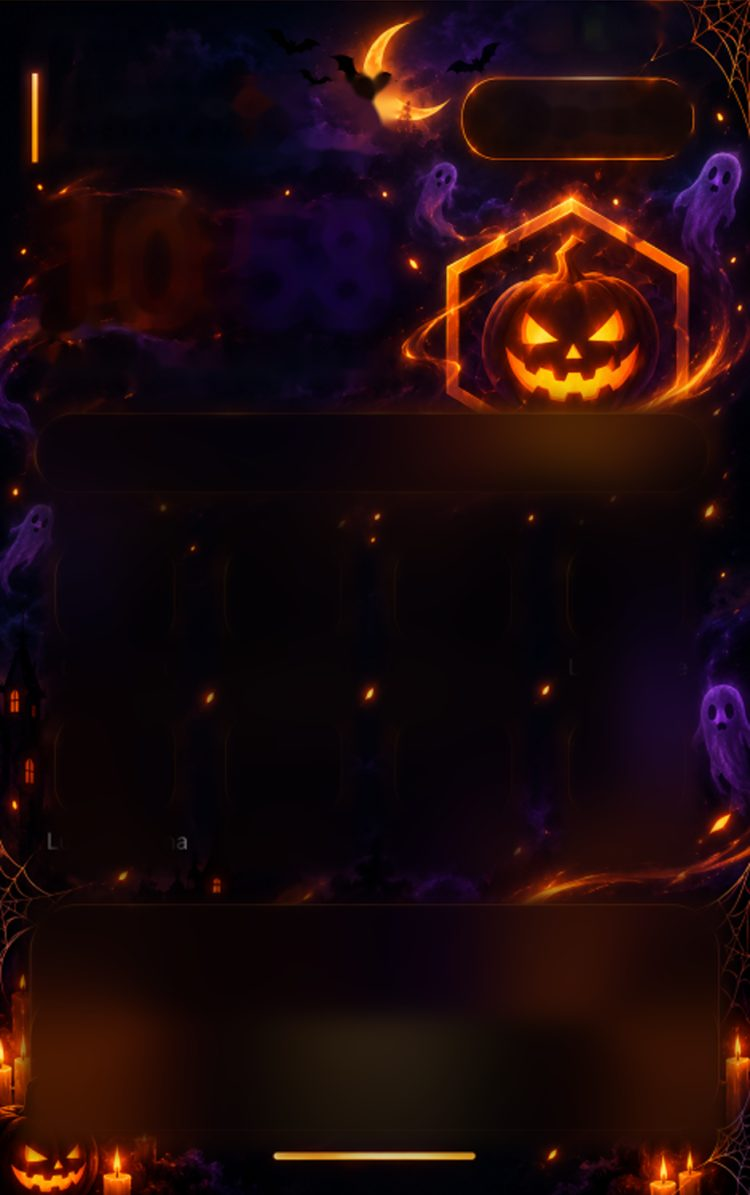
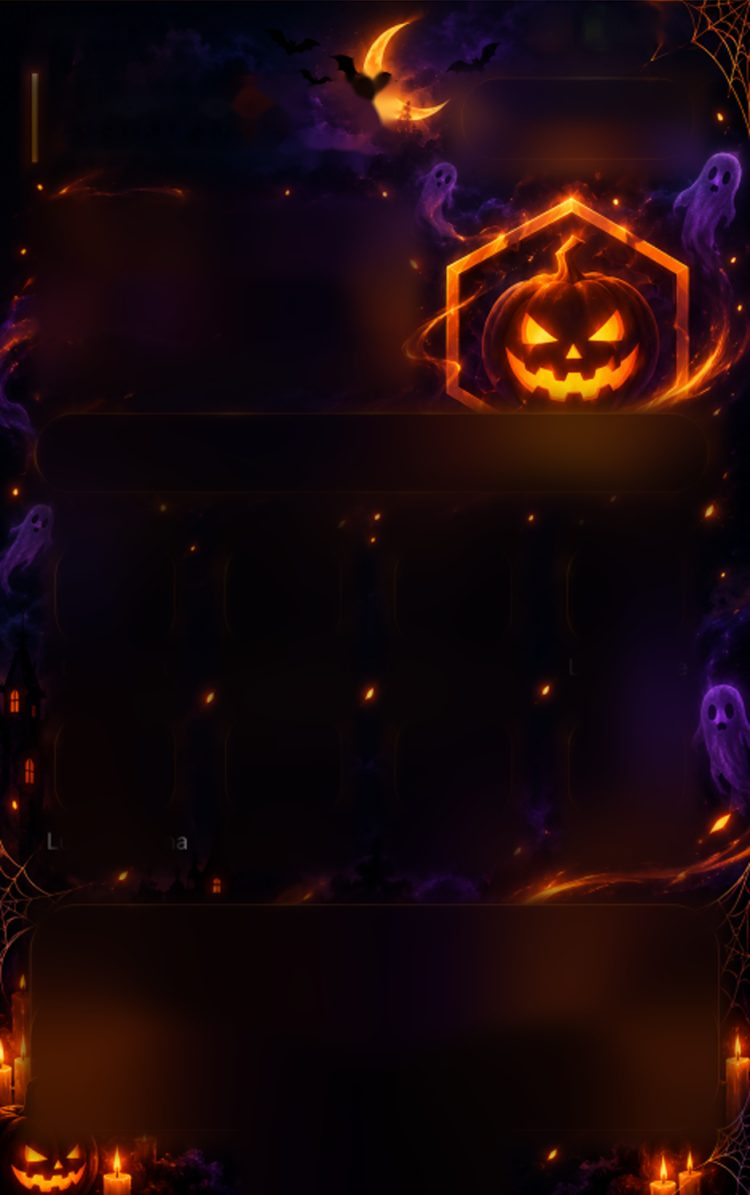
Bewegter Hintergrund: Driften, Atmen, Wellen, Glitzern, Parallax; Pill und Balken live; Alle-Apps-Seite und Sperrbildschirm animiert
Claude-Session: https://claude.ai/code/session_01QPs3d166SmVoQPqWLWZDzX

diff --git a/index.html b/index.html
@@ -613,7 +613,7 @@ select.f{appearance:auto}
 .skh .xup{position:absolute;left:0;right:0;top:1462px;text-align:center;font-size:30px;font-weight:700;color:#fff;opacity:.75;text-shadow:0 0 12px #000;pointer-events:none;animation:skbob 1.6s ease-in-out infinite alternate}
 
 .skh .s1{position:relative;height:100%;overflow:hidden;scroll-snap-align:start}
-.skh .s2{min-height:100%;box-sizing:border-box;scroll-snap-align:start;padding:46px 14px 40px;background:linear-gradient(rgba(4,2,10,.55),rgba(4,2,10,.82)),var(--skbg) center/cover}
+.skh .s2{min-height:100%;box-sizing:border-box;scroll-snap-align:start;padding:46px 14px 40px;background:linear-gradient(rgba(4,2,10,.12),rgba(4,2,10,.42))}
 .skh .s2h{display:flex;justify-content:space-between;align-items:center;margin-bottom:14px;color:#fff}.skh .s2h b{font-size:26px;font-weight:600}
 .skh .s2b{border:1px solid #ffffff55;background:#0008;color:#fff;border-radius:16px;padding:8px 12px;font-weight:700}
 .skg{display:grid;grid-template-columns:repeat(4,1fr);gap:16px 6px}
@@ -672,6 +672,19 @@ select.f{appearance:auto}
 @keyframes sktl{from{box-shadow:0 0 18px var(--gc)55,inset 0 0 18px var(--gc)22}to{box-shadow:0 0 40px var(--gc)aa,inset 0 0 30px var(--gc)44}}
 .skh .tl.tap{transform:scale(.94)}
 .skh .hs.ap::after{display:none}.skh .tl.hat::after,.skh.sv .tl:not(.hat)::after{display:block}
+
+/* Live-Pill + Balken (nicht mehr im Bild, damit sie beim Driften des Hintergrunds nicht verrutschen) */
+.skh .xp{position:absolute;border-radius:60px;background:rgba(8,5,16,.93);border:3px solid var(--gc);box-shadow:0 0 24px var(--gc)66,inset 0 0 22px var(--gc)22;box-sizing:border-box}
+.skh .xbar{position:absolute;width:6px;border-radius:3px;background:linear-gradient(var(--gc),rgba(255,255,255,0));box-shadow:0 0 12px var(--gc)}
+.sk-fxa .skh .xp{animation:skpl 4s ease-in-out infinite alternate}
+@keyframes skpl{from{box-shadow:0 0 14px var(--gc)44,inset 0 0 16px var(--gc)18}to{box-shadow:0 0 34px var(--gc)99,inset 0 0 28px var(--gc)40}}
+.skh.xm .xp::after{content:'';position:absolute;right:10px;top:-52px;width:96px;height:70px;background:radial-gradient(circle at 88% 90%,#fff 0 10px,transparent 11px),linear-gradient(#e0262b,#b31217);clip-path:polygon(0 100%,35% 8%,72% 0,100% 100%);transform:rotate(12deg)}
+.skh.xm .xp::before{content:'';position:absolute;left:30px;right:30px;top:-7px;height:20px;border-radius:12px;background:linear-gradient(#fff,#cfe3ff)}
+.skh .xlg{display:none!important}
+
+/* Sperrbildschirm: bewegtes Skin-Bild */
+#phone.sk-hw.lo #lock#lock,#phone.sk-xm.lo #lock#lock,#phone.sk-sv.lo #lock#lock{background:linear-gradient(rgba(0,0,0,.08),rgba(0,0,0,.4)),var(--sklk) 50% 50%/auto 112% no-repeat,#05030a;animation:sklk 18s ease-in-out infinite alternate}
+@keyframes sklk{from{background-size:100% 100%,auto 108%;background-position:0 0,35% 30%}to{background-size:100% 100%,auto 128%;background-position:0 0,65% 70%}}
 /* ================= 6.2: Lucario Arena (grafisch) ================= */
 .ag{position:relative;width:100%;height:100%;min-height:520px;background:#0b0f1e;color:#eaf0ff;font-family:system-ui,sans-serif;overflow:hidden;user-select:none;-webkit-user-select:none;touch-action:manipulation}
 .ag *{box-sizing:border-box}
@@ -4904,7 +4917,7 @@ A.putz=el=>{
   try{ph.insertBefore(cv,$('#fxb')||$('#home'))}catch(e){ph.appendChild(cv)}
   const g=cv.getContext('2d');let W=0,H=0,bg=null,raf=0,last=0,skin='',T=0;
   const R=(a,b)=>a+Math.random()*(b-a),perf=()=>{const c=ph.classList;return c.contains('perf3')?3:c.contains('perf2')?2:c.contains('perf1')?1:0};
-  const DEF={extra:1,ex:1,dens:100,spd:100,glow:100,sharp:0,dim:100,games:1,gdens:100,anim:1,look:1,force:0},K=()=>Object.assign({},DEF,SET.skfx||{});let DN=1,drawn=false,exShown=false;
+  const DEF={mv:100,tilt:1,extra:1,ex:1,dens:100,spd:100,glow:100,sharp:0,dim:100,games:1,gdens:100,anim:1,look:1,force:0},K=()=>Object.assign({},DEF,SET.skfx||{});let DN=1,drawn=false,exShown=false;
   const lvl=()=>K().force?0:perf();
   /* ---------- Zustand je Skin ---------- */
   let flares=[],fog,bats,ghosts,embers,pumps,rockets,sparks,conf,wins,ripples,shineT;
@@ -4940,7 +4953,7 @@ A.putz=el=>{
     x.fillStyle='#f2f6ff';x.beginPath();x.arc(o.x,y-s*.2,s*.5,Math.PI,0);x.lineTo(o.x+s*.5,y+s*.55);for(let i=0;i<5;i++){x.quadraticCurveTo(o.x+s*.5-(i+.5)*s*.2,y+s*(.55+(i%2?-.18:.2)),o.x+s*.5-(i+1)*s*.2,y+s*.55)}x.closePath();x.fill();
     x.fillStyle='#1a1030';x.beginPath();x.ellipse(o.x-s*.18,y-s*.22,s*.07,s*.12,0,0,7);x.ellipse(o.x+s*.18,y-s*.22,s*.07,s*.12,0,0,7);x.fill();x.beginPath();x.ellipse(o.x,y+s*.05,s*.08,s*.12,0,0,7);x.fill();x.restore()}
   function hwFrame(dt,t){
-    g.drawImage(bg,0,0);
+    drawBg(t,dt);
     fog.forEach(f=>{f.x+=f.v*dt*30;if(f.x>W+f.r)f.x=-f.r;if(f.x<-f.r)f.x=W+f.r;const gr=g.createRadialGradient(f.x,f.y,0,f.x,f.y,f.r);gr.addColorStop(0,'rgba(150,90,210,'+f.a+')');gr.addColorStop(1,'rgba(150,90,210,0)');g.fillStyle=gr;g.fillRect(f.x-f.r,f.y-f.r,f.r*2,f.r*2)});
     if(!exShown)pumps.forEach(p=>pumpkin(p,t));
     if(Math.random()<dt*DN*.5&&bats.length<(lvl()?2:4))bats.push({x:Math.random()<.5?-30:W+30,y:R(H*.08,H*.5),vx:0,s:W*R(.07,.12),p:R(0,6),d:1,sp:R(70,130)});
@@ -4959,7 +4972,7 @@ A.putz=el=>{
   const PAL=['#ffd24a','#ff9a3a','#5aa8ff','#ff5ad0','#7dffb0','#ffffff','#b07dff'];
   function boom(x,y){const c=PAL[Math.floor(R(0,PAL.length))],c2=PAL[Math.floor(R(0,PAL.length))],n=lvl()?44:90,ring=Math.random()<.4;for(let i=0;i<n;i++){const a=i/n*6.283,v=ring?5.4:R(1.5,6.4);sparks.push({x,y,vx:Math.cos(a)*v,vy:Math.sin(a)*v,l:1,d:R(.009,.016),c:i%3?c:c2})}ripples.push({x,y:Math.min(H*.84,y+H*.38),l:1,c});flares.push({x,y,l:1,c})}
   function svFrame(dt,t){
-    g.drawImage(bg,0,0);
+    drawBg(t,dt);
     wins.forEach(w=>{const a=.25+.6*Math.max(0,Math.sin(t*w.f+w.p));if(a>.4){g.fillStyle='rgba(255,214,120,'+a+')';g.fillRect(w.x,w.y,3,4)}});
     const tw=g.createLinearGradient(0,H*.8,0,H);tw.addColorStop(0,'rgba(255,200,90,.14)');tw.addColorStop(1,'rgba(255,200,90,0)');g.fillStyle=tw;for(let i=0;i<7;i++){g.fillRect(((i*97+t*14*(i%2?1:-1))%W+W)%W,H*.8+i*H*.025,W*.22,2)}
     if(Math.random()<dt*DN*(lvl()?.7:1.4)&&rockets.length<3)rockets.push({x:R(W*.12,W*.88),y:H*.8,ty:R(H*.12,H*.42),vy:-R(4,6)});
@@ -4976,22 +4989,51 @@ A.putz=el=>{
   function geo(w,h){let s0=w/940,gap=h-1494*s0;if(gap<0){s0=h/1494;gap=0}return{s:s0,gap:gap,ox:(w-940*s0)/2,oy:gap>0?0:(h-1494*s0)/2}}
   const IM={};function img(k,sfx){const n=k+(sfx||'');if(!IM[n]){const i=new Image();IM[n]={i,ok:false};i.onload=()=>{IM[n].ok=true;if(skin==k)try{build();drawn=false}catch(e){}};const u=sfx=='@h'?'skh-'+k+'.jpg':'skin-'+n+'.jpg';i.src=(window.__SKI&&window.__SKI[u])||u}return IM[n]}
   function cover(x,m){const w=m.i.width,h=m.i.height,sc=Math.max(W/w,H/h);x.drawImage(m.i,(W-w*sc)/2,(H-h*sc)/2,w*sc,h*sc)}
-  function imgBg(k,fb){const m=img(k);const q=K(),ms=img(k,'-s');if(exShown){const mh=img(k,'@h');return mkBg(x=>{if(m.ok)cover(x,m);x.fillStyle='rgba(0,0,0,.35)';x.fillRect(0,0,W,H);if(mh.ok){const G0=geo(W,H),s0=G0.s,k=mh.i.width/940,sm=SEAM[skin];
+  function imgBg(k,fb,bl){const m=img(k);const q=K(),ms=img(k,'-s');if(exShown&&!bl){const mh=img(k,'@h');return mkBg(x=>{if(m.ok)cover(x,m);x.fillStyle='rgba(0,0,0,.35)';x.fillRect(0,0,W,H);if(mh.ok){const G0=geo(W,H),s0=G0.s,k=mh.i.width/940,sm=SEAM[skin];
       if(G0.gap<=0){const w0=940*s0,h0=1494*s0,t=document.createElement('canvas');t.width=Math.ceil(w0);t.height=Math.ceil(h0);const y=t.getContext('2d');y.drawImage(mh.i,0,0,t.width,t.height);y.globalCompositeOperation='destination-in';const gr=y.createLinearGradient(0,0,0,t.height),fd=Math.min(.12,60/t.height);gr.addColorStop(0,'rgba(0,0,0,0)');gr.addColorStop(fd,'#000');gr.addColorStop(1-fd,'#000');gr.addColorStop(1,'rgba(0,0,0,0)');y.fillStyle=gr;y.fillRect(0,0,t.width,t.height);x.drawImage(t,G0.ox,G0.oy)}
       else{const gp=G0.gap,tmp=document.createElement('canvas');tmp.width=60;tmp.height=30;tmp.getContext('2d').drawImage(mh.i,0,(sm-70)*k,mh.i.width,140*k,0,0,60,30);
         const band=(a,b,dy,f0,f1)=>{const hh=(b-a)*s0,t=document.createElement('canvas');t.width=Math.ceil(W);t.height=Math.ceil(hh);const y=t.getContext('2d');y.drawImage(mh.i,0,a*k,mh.i.width,(b-a)*k,0,0,t.width,t.height);y.globalCompositeOperation='destination-in';const gr=y.createLinearGradient(0,0,0,t.height);gr.addColorStop(0,f0?'rgba(0,0,0,0)':'#000');gr.addColorStop(f0?Math.min(.5,24*s0/t.height):0,'#000');gr.addColorStop(f1?1-Math.min(.5,24*s0/t.height):1,'#000');gr.addColorStop(1,f1?'rgba(0,0,0,0)':'#000');y.fillStyle=gr;y.fillRect(0,0,t.width,t.height);x.drawImage(t,0,dy)};
         band(0,sm,0,0,1);band(sm,1494,sm*s0+gp,1,0)}}})}
-    return mkBg(x=>{if(m.ok){cover(x,m);if(q.sharp>0&&ms.ok){x.globalAlpha=q.sharp/100;cover(x,ms);x.globalAlpha=1}if(q.dim<100){x.fillStyle='rgba(0,0,0,'+(1-q.dim/100)+')';x.fillRect(0,0,W,H)}}else fb(x)})}
+    return mkBg(x=>{if(m.ok){cover(x,m);if(bl){x.globalCompositeOperation='lighter';x.globalAlpha=.45;cover(x,m);x.globalAlpha=1;x.globalCompositeOperation='source-over'}if(q.sharp>0&&ms.ok){x.globalAlpha=q.sharp/100;cover(x,ms);x.globalAlpha=1}if(q.dim<100){x.fillStyle='rgba(0,0,0,'+(1-q.dim/100)+')';x.fillRect(0,0,W,H)}}else fb(x)})}
   /* ---------- WEIHNACHTEN ---------- */
   function xmBg(x){const sg=x.createLinearGradient(0,0,0,H);sg.addColorStop(0,'#070b24');sg.addColorStop(.6,'#13244f');sg.addColorStop(1,'#1d2f5c');x.fillStyle=sg;x.fillRect(0,0,W,H)}
   let snow,lights,shoot;
   function xmInit(){snow=Array.from({length:lvl()?40:110},()=>({x:R(0,W),y:R(0,H),v:R(.4,1.5),p:R(0,6),s:R(1,3.2)}));lights=Array.from({length:14},(_,i)=>({x:(i+.5)/14*W,c:['#ff3b3b','#ffd23d','#3bff7a','#4cc3ff'][i%4],p:R(0,6)}));shoot=null}
-  function xmFrame(dt,t){g.drawImage(bg,0,0);
+  function xmFrame(dt,t){drawBg(t,dt);
     g.fillStyle='rgba(255,255,255,.85)';snow.forEach(f=>{f.y+=f.v*dt*45;f.x+=Math.sin(t*.8+f.p)*.4;if(f.y>H+4){f.y=-4;f.x=R(0,W)}g.globalAlpha=.45+f.s/6;g.beginPath();g.arc(f.x,f.y,f.s*SC,0,7);g.fill()});g.globalAlpha=1;
     g.strokeStyle='rgba(20,60,30,.9)';g.lineWidth=2;g.beginPath();g.moveTo(0,4);lights.forEach(l=>g.lineTo(l.x,4+Math.sin(l.x/W*Math.PI*3)*7+8));g.lineTo(W,6);g.stroke();
     lights.forEach(l=>{const y=12+Math.sin(l.x/W*Math.PI*3)*7,a=.55+.45*Math.sin(t*3+l.p);g.fillStyle=l.c;g.globalAlpha=a;g.shadowColor=l.c;g.shadowBlur=14;g.beginPath();g.arc(l.x,y,4.2,0,7);g.fill();g.shadowBlur=0});g.globalAlpha=1;
     if(!shoot&&Math.random()<dt*DN*.15)shoot={x:R(W*.3,W),y:R(0,H*.25),l:1};if(shoot){shoot.x-=dt*420;shoot.y+=dt*170;shoot.l-=dt*1.1;g.strokeStyle='rgba(255,255,255,'+Math.max(0,shoot.l)+')';g.lineWidth=2;g.beginPath();g.moveTo(shoot.x,shoot.y);g.lineTo(shoot.x+50,shoot.y-20);g.stroke();if(shoot.l<=0)shoot=null}}
   function scale(a,f){if(!a||f===1)return a;if(f<1){a.length=Math.floor(a.length*f)}else{const n=a.length;for(let i=0;i<Math.round(n*(f-1));i++){const c=Object.assign({},a[i%n]);c.x=R(0,W);c.y=R(0,H);a.push(c)}}return a}
+  /* ---------- Hintergrund-Bewegung: Driften, Atmen, Wellen, Glitzern, Parallax ---------- */
+  let bgBl=null,mix=0,mt=0,curX=0,curY=0,ptX=0,ptY=0,orX=null,orY=null,pts=[],bok=[],qs=0,fc=0,fn=0;
+  const ART={hw:{hex:[712,562,200],moon:[505,265,130],eyes:[[668,590],[760,590]]},xm:{hex:[725,602,160],moon:[565,262,130],star:[781,415]},sv:{hex:[697,575,160],crown:[697,455],hat:[880,775,120]}};
+  const BK={hw:['255,140,40','170,100,255','255,200,80'],xm:['255,255,255','255,210,120','255,90,90'],sv:['255,205,90','110,160,255','255,120,200']};
+  function art(X,Y){const G0=geo(W,H);return[G0.ox+X*G0.s,G0.oy+(Y-178)*G0.s,G0.s]}
+  try{ph.addEventListener('pointermove',e=>{const r=ph.getBoundingClientRect();ptX=((e.clientX-r.left)/r.width-.5)*2;ptY=((e.clientY-r.top)/r.height-.5)*2},{passive:true});ph.addEventListener('pointerleave',()=>{ptX=0;ptY=0});
+    addEventListener('deviceorientation',e=>{if(e.gamma==null)return;orX=Math.max(-1,Math.min(1,e.gamma/22));orY=Math.max(-1,Math.min(1,((e.beta||0)-55)/22))},{passive:true});
+    ph.addEventListener('click',()=>{try{if(window.DeviceOrientationEvent&&DeviceOrientationEvent.requestPermission&&!window.__doReq){window.__doReq=1;DeviceOrientationEvent.requestPermission().catch(()=>{})}}catch(_){}})}catch(e){}
+  function findPts(){pts=[];if(!bg)return;try{const d=bg.getContext('2d').getImageData(0,0,W,H).data,st=3,c=[];const Lm=i=>d[i]*.3+d[i+1]*.59+d[i+2]*.11;
+      for(let y=6;y<H-6;y+=st)for(let x=6;x<W-6;x+=st){const i=(y*W+x)*4,l=Lm(i);if(l<175)continue;let ok=true;for(let dy=-6;dy<=6&&ok;dy+=3)for(let dx=-6;dx<=6;dx+=3){if(!dx&&!dy)continue;if(Lm(((y+dy)*W+x+dx)*4)>l){ok=false;break}}if(ok)c.push([x,y,l,d[i],d[i+1],d[i+2]])}
+      c.sort((a,b)=>b[2]-a[2]);for(const p of c){if(pts.length>=150)break;if(pts.some(q=>(q.x-p[0])*(q.x-p[0])+(q.y-p[1])*(q.y-p[1])<150))continue;const m=Math.max(p[3],p[4],p[5],1)/255;pts.push({x:p[0],y:p[1],r:R(1.6,3.4),f:R(1.2,4.2),p:R(0,6.3),c:'rgba('+Math.min(255,p[3]/m|0)+','+Math.min(255,p[4]/m|0)+','+Math.min(255,p[5]/m|0)+',.55)'})}}catch(e){pts=[]}}
+  function mkBok(){const cl=BK[skin]||BK.hw,n=lvl()?5:11;bok=Array.from({length:n},(_,i)=>({x:R(0,W),y:R(0,H),r:R(W*.05,W*.15),v:R(5,20),p:R(0,6),a:R(.05,.12),c:cl[i%cl.length]}))}
+  function glow(X,Y,r,col,a){const o=art(X,Y),rr=r*o[2],gr=g.createRadialGradient(o[0],o[1],0,o[0],o[1],rr);gr.addColorStop(0,'rgba('+col+','+Math.max(0,a)+')');gr.addColorStop(1,'rgba('+col+',0)');g.fillStyle=gr;g.fillRect(o[0]-rr,o[1]-rr,rr*2,rr*2)}
+  function flare(P,col,t){const o=art(P[0],P[1]),s0=o[2],Lr=(34+16*Math.sin(t*3.1))*s0;g.save();g.translate(o[0],o[1]);g.rotate(t*.6);g.strokeStyle='rgba('+col+',.85)';g.lineWidth=Math.max(1,2*s0);g.lineCap='round';for(let k=0;k<2;k++){g.rotate(Math.PI/2);g.beginPath();g.moveTo(-Lr,0);g.lineTo(Lr,0);g.stroke()}g.restore();glow(P[0],P[1],60,col,.35+.25*Math.sin(t*3.1))}
+  function drawBg(t,dt){if(!bg)return;const q=K(),A=Math.min(2.5,Math.max(0,q.mv/100)),tl=q.tilt?1:0,ex=orX!==null?orX:ptX,ey=orY!==null?orY:ptY,kk=Math.min(1,dt*3.5);
+    curX+=(ex-curX)*kk;curY+=(ey-curY)*kk;mt+=dt;
+    const wx=.016*A,wy=.010*A,sc=1+.096*A+.02*A*Math.sin(mt*.35),
+      px=(Math.sin(mt*.21)*wx+Math.sin(mt*.47+1)*wx*.35-curX*.022*A*tl)*W,py=(Math.cos(mt*.16)*wy+Math.sin(mt*.39)*wy*.4-curY*.014*A*tl)*H;
+    g.save();g.translate(W/2+px,H/2+py);g.scale(sc,sc);g.translate(-W/2,-H/2);
+    const wave=A>0&&qs==0&&lvl()==0,vis=1-mix,dm=(im,al)=>{g.globalAlpha=al;if(wave){const sh=7,amp=2.1*A;for(let y=0;y<H;y+=sh){const f=skin=='sv'?(.4+.9*y/H):1,off=(Math.sin(y*.045+mt*1.5)+.6*Math.sin(y*.013-mt*.8))*amp*f,hh=Math.min(sh,H-y);g.drawImage(im,0,y,W,hh,off,y,W,hh)}}else g.drawImage(im,0,0);g.globalAlpha=1};
+    if(mix>.02&&bgBl){dm(bgBl,1);if(mix<.98)dm(bg,vis)}else dm(bg,1);
+    g.globalCompositeOperation='lighter';
+    if(qs<2&&pts.length){const n=qs?Math.min(pts.length,55):pts.length;for(let i=0;i<n;i++){const p=pts[i],a=(.15+.85*Math.pow(.5+.5*Math.sin(mt*p.f+p.p),2))*vis;g.globalAlpha=a;g.fillStyle=p.c;g.beginPath();g.arc(p.x,p.y,p.r*2.6,0,7);g.fill();g.fillStyle='#fff';g.beginPath();g.arc(p.x,p.y,p.r*.65,0,7);g.fill()}g.globalAlpha=1}
+    if(exShown&&A>0&&vis>.02){g.globalAlpha=vis;const a=ART[skin],pu=.5+.5*Math.sin(mt*1.7);
+      if(skin=='hw'){const fl=.2+.15*Math.sin(mt*7.3)+.09*Math.sin(mt*13.1+1)+.04*Math.random();glow(a.hex[0],a.hex[1],a.hex[2],'255,130,20',fl);a.eyes.forEach((e,i)=>glow(e[0],e[1],48,'255,210,70',.28+.3*Math.sin(mt*9+i*2)));glow(a.moon[0],a.moon[1],a.moon[2],'255,190,80',.22+.14*pu)}
+      else if(skin=='xm'){glow(a.hex[0],a.hex[1],a.hex[2],'255,60,60',.16+.14*pu);glow(a.moon[0],a.moon[1],a.moon[2],'200,220,255',.18+.12*Math.sin(mt*.9));flare(a.star,'255,230,150',mt)}
+      else{glow(a.hex[0],a.hex[1],a.hex[2],'255,200,60',.18+.15*pu);flare(a.crown,'255,235,160',mt+1);glow(a.hat[0],a.hat[1],a.hat[2],'255,200,60',.1+.1*pu)}g.globalAlpha=1}
+    g.globalCompositeOperation='source-over';g.restore();
+    if(bok.length&&qs<2){g.globalCompositeOperation='lighter';bok.forEach(b=>{b.y-=b.v*dt;b.x+=Math.sin(mt*.3+b.p)*.25;if(b.y<-b.r){b.y=H+b.r;b.x=R(0,W)}const gr=g.createRadialGradient(b.x,b.y,0,b.x,b.y,b.r);gr.addColorStop(0,'rgba('+b.c+','+b.a+')');gr.addColorStop(1,'rgba('+b.c+',0)');g.fillStyle=gr;g.fillRect(b.x-b.r,b.y-b.r,b.r*2,b.r*2)});g.globalCompositeOperation='source-over'}}
   /* ---------- Extra-Animationen (Blitz, Spinne, Schlitten, Aurora, Strahler, Tipp-Effekte) ---------- */
   let tp=[],ltm=4,lfl=0,spd=null,slg=null,slT=12;
   function burst(x,y){if(!skin)return;const n=lvl()?8:18;
@@ -5007,12 +5049,13 @@ A.putz=el=>{
     else if(skin=='xm'){g.globalCompositeOperation='lighter';[['rgba(60,255,160,','.07',.18],['rgba(160,90,255,','.06',.26],['rgba(60,200,255,','.05',.12]].forEach((a,i)=>{const yy=H*(a[2])+Math.sin(t*.4+i*2)*H*.03,gr=g.createLinearGradient(0,yy-H*.12,0,yy+H*.12);gr.addColorStop(0,a[0]+'0)');gr.addColorStop(.5,a[0]+(.08+.05*Math.sin(t*.7+i))+')');gr.addColorStop(1,a[0]+'0)');g.fillStyle=gr;g.fillRect(0,yy-H*.12,W,H*.24)});g.globalCompositeOperation='source-over';
       slT-=dt;if(!slg&&slT<=0&&!lo){slg={x:-W*.3,y:R(H*.05,H*.14)};slT=R(20,40)}if(slg){slg.x+=dt*W*.16;slg.y+=Math.sin(t*2)*.3;g.font=Math.round(W*.07)+'px serif';g.textAlign='left';g.fillText('🦌🦌🛷',slg.x,slg.y);if(Math.random()<.5)tp.push({x:slg.x,y:slg.y+6,vx:R(-25,0),vy:R(5,30),g:20,l:R(.5,1),s:R(1,2.2),c:'#ffe9a0'});if(slg.x>W)slg=null}}
     else if(skin=='sv'){g.globalCompositeOperation='lighter';[[.15,1],[.85,-1]].forEach((b,i)=>{const a=Math.sin(t*.55+i*2)*.4*b[1],x0=W*b[0],y0=H,len=H*1.1,gr=g.createLinearGradient(x0,y0,x0+Math.sin(a)*len,y0-Math.cos(a)*len);gr.addColorStop(0,'rgba(255,230,160,.22)');gr.addColorStop(1,'rgba(255,230,160,0)');g.fillStyle=gr;g.beginPath();g.moveTo(x0-8,y0);g.lineTo(x0+8,y0);g.lineTo(x0+Math.sin(a)*len+W*.12,y0-Math.cos(a)*len);g.lineTo(x0+Math.sin(a)*len-W*.12,y0-Math.cos(a)*len);g.fill()});g.globalCompositeOperation='source-over'}}
-  function build(){if(!skin)return;DN=K().dens/100;if(skin=='hw'){bg=imgBg('hw',hwBg);hwInit();embers=scale(embers,DN)}else if(skin=='sv'){bg=imgBg('sv',svBg);svInit();conf=scale(conf,DN)}else{bg=imgBg('xm',xmBg);xmInit();snow=scale(snow,DN)}drawn=false}
+  function build(){if(!skin)return;DN=K().dens/100;const f=skin=='hw'?hwBg:skin=='sv'?svBg:xmBg;bg=imgBg(skin,f);bgBl=exShown?imgBg(skin,f,1):null;if(skin=='hw'){hwInit();embers=scale(embers,DN)}else if(skin=='sv'){svInit();conf=scale(conf,DN)}else{xmInit();snow=scale(snow,DN)}findPts();mkBok();drawn=false}
   function frame(t){raf=requestAnimationFrame(frame);if(document.hidden||ph.classList.contains('inapp')){last=t;return}
-    const q=K(),dt0=Math.min(.1,(t-last)/1000),L=lvl();if(!q.anim&&drawn){last=t;return}if(L>=2){if(dt0<.05)return}else if(dt0<.032)return;last=t;const dt=dt0*q.spd/100;drawn=true;
-    const tt=t/1000;try{skin=='hw'?hwFrame(dt||.033,tt):skin=='xm'?xmFrame(dt||.033,tt):svFrame(dt||.033,tt);extra(dt||.033,tt)}catch(e){}}
+    const q=K(),dt0=Math.min(.1,(t-last)/1000),L=lvl();if(!q.anim&&drawn){last=t;return}const cap=L>=2||qs==2?.05:(qs==1||L==1?.032:.02);if(dt0<cap)return;last=t;const dt=dt0*q.spd/100;drawn=true;const t0=performance.now();
+    const tt=t/1000;try{skin=='hw'?hwFrame(dt||.033,tt):skin=='xm'?xmFrame(dt||.033,tt):svFrame(dt||.033,tt);extra(dt||.033,tt)}catch(e){}
+    if(!q.force){fc=fc*.9+(performance.now()-t0)*.1;if(++fn%40==0){const n=fc>24?2:fc>12?1:0;if(n!=qs)qs=n}}else qs=0}
   function sync(){try{const q=K();ph.style.setProperty('--skg',q.glow/100);ph.classList.toggle('sk-look',!!q.look);ph.classList.toggle('sk-fxa',!!q.extra&&!!q.anim)}catch(_){}const s=(SET.skin==='hw'||SET.skin==='sv'||SET.skin==='xm')&&SET.style=='lucario'&&!SET.reduce?SET.skin:'';
-    ph.classList.toggle('sk-hw',s=='hw');ph.classList.toggle('sk-sv',s=='sv');ph.classList.toggle('sk-xm',s=='xm');window.SKFOOD=s?SK[s].food:'';
+    ph.classList.toggle('sk-hw',s=='hw');ph.classList.toggle('sk-sv',s=='sv');ph.classList.toggle('sk-xm',s=='xm');window.SKFOOD=s?SK[s].food:'';try{ph.style.setProperty('--sklk',s?'url("'+((window.__SKI&&window.__SKI['skin-'+s+'.jpg'])||('skin-'+s+'.jpg'))+'")':'none')}catch(_){}
     if(s!==skin){skin=s;if(s)try{build()}catch(e){}if(!s){cv.style.display='none';cancelAnimationFrame(raf);raf=0;try{exSync()}catch(_){};return}cv.style.display='block';size();last=performance.now();if(!raf)raf=requestAnimationFrame(frame)}else if(s&&!raf){cv.style.display='block';raf=requestAnimationFrame(frame)}try{exSync()}catch(_){}}
   /* Akzentfarbe des Skins in das LucarioOS-Design einspeisen */
   const _lt=loTheme;loTheme=function(){const s=SK[SET.skin];if(s&&SET.style=='lucario'){const o=SET.accent;SET.accent=s.acc;try{return _lt.apply(this,arguments)}finally{SET.accent=o}}return _lt.apply(this,arguments)};
@@ -5047,11 +5090,10 @@ A.putz=el=>{
   function exBuild(){exDestroy();const L=LY[skin],c=CO[skin];exRoot=document.createElement('div');exRoot.id='skh';exRoot.className='skh '+skin;
     const hs=(x,y,w,h,fn,l)=>'<i class="hs'+(fn[0]=='#'?'':' ap')+'" data-a="'+fn+'" style="left:'+x+'px;top:'+y+'px;width:'+w+'px;height:'+h+'px" aria-label="'+l+'"></i>';
     let h='<section class="s1"><div class="skhi" style="width:940px;height:1494px">';
-    h+='<u class="xp" style="left:'+(L.d[0]+8)+'px;top:'+(L.d[1]-178+8)+'px;width:'+(L.d[2]-L.d[0]-16)+'px;height:'+(L.d[3]-L.d[1]-16)+'px"></u>';
+    h+='<u class="xbar" style="left:40px;top:90px;height:114px"></u>';
+    h+='<u class="xp" style="left:'+L.d[0]+'px;top:'+(L.d[1]-178)+'px;width:'+(L.d[2]-L.d[0])+'px;height:'+(L.d[3]-L.d[1])+'px"></u>';
     h+='<div class="xc" style="left:'+(L.d[0]+26)+'px;top:'+(L.d[1]-178+24)+'px"><b>1</b></div><div class="xw" style="left:'+(L.d[0]+118)+'px;top:'+(L.d[1]-178+20)+'px;color:#fff"></div><div class="xd" style="left:'+(L.d[0]+118)+'px;top:'+(L.d[1]-178+60)+'px;color:'+c[3]+'"></div>';
-    const HX={hw:[712,384,330],xm:[725,424,260],sv:[697,397,260]},hx=HX[skin];
-    h+='<div class="xlg" style="left:'+(hx[0]-hx[2]/2)+'px;top:'+(hx[1]-hx[2]/2)+'px;width:'+hx[2]+'px;height:'+hx[2]+'px"></div>';
-    h+='<div class="xsr" style="left:'+L.se[0]+'px;top:'+(L.se[1]-178)+'px;width:'+L.se[2]+'px;height:'+L.se[3]+'px"><i></i></div>';
+        h+='<div class="xsr" style="left:'+L.se[0]+'px;top:'+(L.se[1]-178)+'px;width:'+L.se[2]+'px;height:'+L.se[3]+'px"><i></i></div>';
     h+='<div class="xt" style="left:78px;top:'+(272-178+2)+'px">Lucario<b style="color:'+c[3]+'">OS</b><small>Smarter. Schneller. Deins.</small></div>';
     h+='<div class="hs xs" data-a="#search" style="left:'+L.se[0]+'px;top:'+(L.se[1]-178)+'px;width:'+L.se[2]+'px;height:'+L.se[3]+'px">'+SV.se+'<span>LucarioOS durchsuchen...</span>'+SV.mic+'</div>';
     h+='<div class="xclk" style="left:48px;top:'+(240)+'px"><span class="xh" style="color:'+c[0]+'"></span><span class="xcl">:</span><span class="xm" style="color:'+c[1]+'"></span></div>';
@@ -5063,13 +5105,13 @@ A.putz=el=>{
     h+=hs(300,1405,340,89,'#all','Alle Apps')+'<div class="xup">▲ Alle Apps</div><u class="xlr"></u></div>'+'</div></section><section class="s2" style="--skbg:url('+((window.__SKI&&window.__SKI['skin-'+skin+'.jpg'])||'skin-'+skin+'.jpg')+')"><div class="s2h"><b>Alle Apps</b><button class="s2b">▲ Skin-Home</button></div><div class="skg"></div></section>';
     exRoot.innerHTML=h;ph.appendChild(exRoot);
     const gr=exRoot.querySelector('.skg');try{const skip=[...IDS1,...IDS2,...IDS3];allApps().filter(a=>!skip.includes(a.id)).sort((x,y)=>{const i=ORDER.indexOf(x.id),j=ORDER.indexOf(y.id);return (i<0?99:i)-(j<0?99:j)}).forEach(a=>gr.appendChild(tile(a)))}catch(e){}
-    const s1=exRoot.querySelector('.s1');
+    const s1=exRoot.querySelector('.s1');exRoot.addEventListener('scroll',()=>{mix=Math.min(1,exRoot.scrollTop/Math.max(1,s1.clientHeight*.7))},{passive:true});
     exRoot.addEventListener('pointerdown',e=>{try{const r=ph.getBoundingClientRect();burst((e.clientX-r.left)*SC,(e.clientY-r.top)*SC)}catch(_){}});
     exRoot.querySelector('.s2b').onclick=()=>exRoot.scrollTo({top:0,behavior:'smooth'});
     exRoot.addEventListener('click',e=>{const t=e.target.closest&&e.target.closest('.hs');if(!t)return;const a=t.dataset.a;t.classList.add('tap');setTimeout(()=>t.classList.remove('tap'),250);
       if(a=='#all')exRoot.scrollTo({top:s1.clientHeight,behavior:'smooth'});else if(a=='#search'){exHide();setTimeout(()=>{try{$('#search').focus()}catch(_){}},60)}else{if(a=='daily'){try{claimLogin()}catch(_){try{openApp('calendar')}catch(__){}}}else try{openApp(a)}catch(_){}}});
     exLayout();exTxt();exIv=setInterval(exTxt,5000)}
-  function exDestroy(){if(exRoot){exRoot.remove();exRoot=null}clearInterval(exIv)}
+  function exDestroy(){if(exRoot){exRoot.remove();exRoot=null}clearInterval(exIv);mix=0}
   function exHide(){exHidden=true;exSync();let b=$('#skhb');if(!b){b=document.createElement('button');b.id='skhb';b.textContent='🖼 Skin-Home';b.onclick=()=>{exHidden=false;exSync()};ph.appendChild(b)}b.style.display='block'}
   function exSync(){const want=!!skin&&!!K().ex&&!exHidden&&!ph.classList.contains('reduce');const b=$('#skhb');if(b)b.style.display=(skin&&K().ex&&exHidden)?'block':'none';
     if(want){if(!exRoot||exRoot.className!=='skh '+skin){exShown=true;exBuild();if(bg)build()}else exLayout()}else{if(exRoot||exShown){exShown=false;exDestroy();ph.classList.remove('sk-ex');if(skin&&bg)build();}}
@@ -5085,7 +5127,7 @@ A.putz=el=>{
   const _ca2=closeApp;closeApp=function(){try{const d=$('#skgx');if(d)d.remove();ph.classList.remove('sk-game')}catch(e){}return _ca2.apply(this,arguments)};
   /* App „Skins“ */
   apps.push({id:'skins',name:'Skins',bg:G('#ff8a1f','#7b2ff7'),svg:ic('<path d="M12 3l2.5 5 5.5.8-4 3.9.9 5.5L12 15.6 7.1 18.2 8 12.7 4 8.8 9.5 8z"/>')});
-  const SL=[['dens','Partikel-Menge','0','200','%'],['spd','Animations-Tempo','20','250','%'],['glow','Leuchten der Icons','0','200','%'],['sharp','Bildschärfe (Original)','0','100','%'],['dim','Helligkeit Hintergrund','30','100','%'],['gdens','Deko in Spielen','0','200','%']],TG=[['anim','Animationen laufen'],['ex','Bild-Modus: Home exakt wie dein Bild'],['extra','Extra-Animationen (Blitz, Spinne, Schlitten, Strahler, Tipp-Effekte)'],['look','Skin-Look (Uhr, Logo, Mützen)'],['games','Deko in Spielen'],['force','Volle Effekte (Leistungsmodus ignorieren)']];
+  const SL=[['mv','Hintergrund-Bewegung','0','250','%'],['dens','Partikel-Menge','0','200','%'],['spd','Animations-Tempo','20','250','%'],['glow','Leuchten der Icons','0','200','%'],['sharp','Bildschärfe (Original)','0','100','%'],['dim','Helligkeit Hintergrund','30','100','%'],['gdens','Deko in Spielen','0','200','%']],TG=[['anim','Animationen laufen'],['tilt','Neigen oder Berühren bewegt den Hintergrund'],['ex','Bild-Modus: Home exakt wie dein Bild'],['extra','Extra-Animationen (Blitz, Spinne, Schlitten, Strahler, Tipp-Effekte)'],['look','Skin-Look (Uhr, Logo, Mützen)'],['games','Deko in Spielen'],['force','Volle Effekte (Leistungsmodus ignorieren)']];
   function fxUI(){const q=K();return '<div class="skfx"><b>⚙ Effekte einstellen</b>'+SL.map(a=>'<label>'+a[1]+' <em id="v_'+a[0]+'">'+q[a[0]]+a[4]+'</em><input type="range" data-s="'+a[0]+'" min="'+a[2]+'" max="'+a[3]+'" value="'+q[a[0]]+'"></label>').join('')+TG.map(a=>'<label class="skt"><input type="checkbox" data-t="'+a[0]+'"'+(q[a[0]]?' checked':'')+'> '+a[1]+'</label>').join('')+'<button class="skrs" id="skrs">Zurücksetzen</button></div>'}
   function fxSet(k,v,rb){SET.skfx=Object.assign({},SET.skfx||{});SET.skfx[k]=v;saveSet();sync();if(rb&&skin)build()}
   A.skins=el=>{

diff --git a/sw.js b/sw.js
@@ -1,6 +1,6 @@
 // LucarioNet Service Worker – macht die App offline-fähig und installierbar.
 // Bei Updates die Version unten erhöhen (z. B. v3), damit der Cache erneuert wird.
-const V = 'lucarionet-v50';
+const V = 'lucarionet-v51';
 const FILES = ['./', 'index.html', 'manifest.webmanifest', 'icon.svg', 'icon-192.png', 'icon-512.png', 'skin-hw.jpg', 'skin-xm.jpg', 'skin-sv.jpg', 'skin-hw-s.jpg', 'skin-xm-s.jpg', 'skin-sv-s.jpg', 'skh-hw.jpg', 'skh-xm.jpg', 'skh-sv.jpg'];
 
 self.addEventListener('install', e => {

diff --git a/README.md b/README.md
@@ -28,6 +28,7 @@ Ein komplettes Handy-Betriebssystem als Web-App (eine `index.html`, installierba
 Öffne einmal `update.html` (z. B. `https://lucario109-hub.github.io/Claude-My-Phone-OS/update.html`). Die Seite entfernt nur den alten Zwischenspeicher und startet LucarioNet neu. Spielstände bleiben erhalten.
 
 ## Neu in 6.4
+- Bewegter Hintergrund in allen Skins: sanftes Driften und Atmen, Wellen, glitzernde Lichter, Schwebelichter, Neigungs-Parallax per Sensor oder Fingerbewegung; auch auf der Alle-Apps-Seite und dem Sperrbildschirm. Regler "Hintergrund-Bewegung" in der Skins-App.
 - Skin-Home mit zwei Ebenen: Hintergrundbild plus echte, scharfe Icons, Suche, Widget und Dock darüber (mit Mützen, Schnee und Leuchten).
 - Skins maximal: Blitz und Spinne (Halloween), Polarlicht und Schlitten (Weihnachten), Suchscheinwerfer (Silvester), pulsierende Leuchtringe, Tipp-Effekte, Kacheln passen sich der Bildschirmhöhe an.
 - Skin-Bild-Modus: Der Homescreen sieht exakt aus wie deine Bilder (Halloween, Weihnachten, Silvester) mit echter Uhr, Datum und Akku; Wischen nach oben zeigt alle Apps, "Skin-Home" bringt dich zurück.
